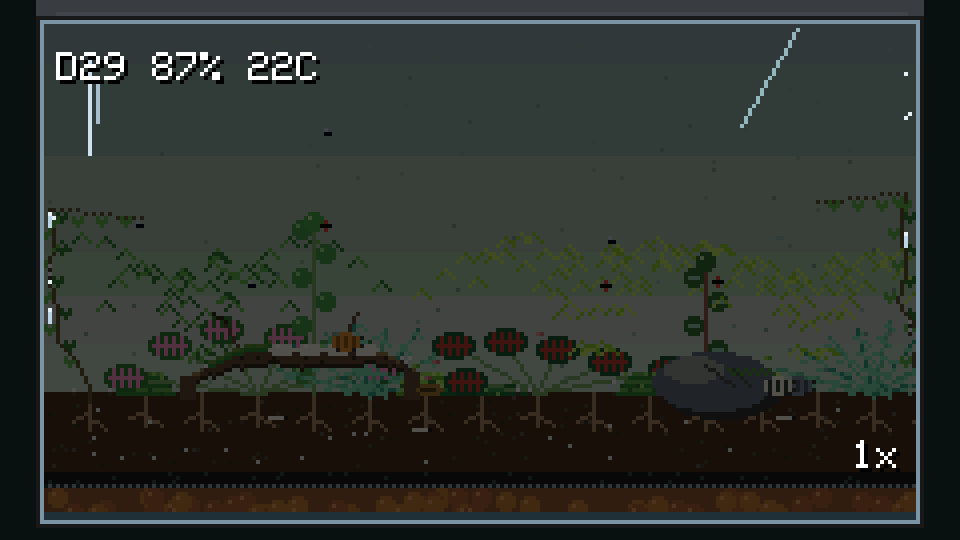
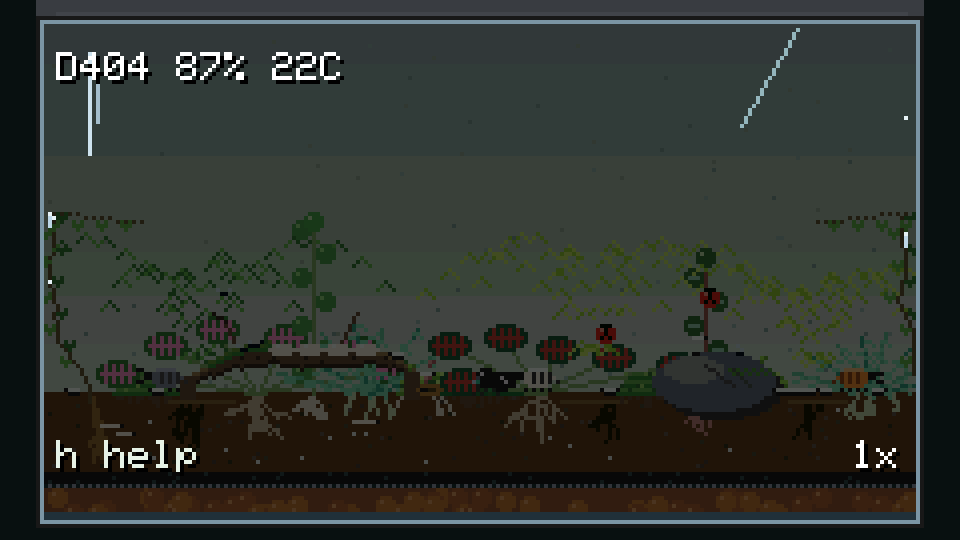
README: v1.0.3 behaviour, USB hot-plug, preview tool; new tank shots
Tank screenshots retaken on the board (same scene.cpp as v1.0.3):
creature agents and per-species roots are now visible.

Claude-Session: https://claude.ai/code/session_01SuPBVCJyWX74QwVoBREBwX

diff --git a/README.md b/README.md
@@ -49,7 +49,15 @@ cushion and carpet moss, button/lemon-button ferns, fittonia (pink and red veins
 peperomia, baby tears, selaginella, and creeping fig climbing the glass.
 
 **Creatures:** springtails, isopods (grey, orange, dalmatian), fungus gnats and their larvae,
-aphids, a ladybug, a jumping spider, plus mold and small mushrooms.
+aphids, a ladybug, a jumping spider, plus mold and small mushrooms. Each bug on screen is a
+small persistent agent with its own habits: isopods wander the litter, pause, and roll into a
+ball when you knock the board; springtails hop in short arcs; gnats flit about and land on
+leaves; ladybugs climb stems and fly between plants; the jumping spider stalks, crouches and
+pounces on a landed gnat or springtail. How many of each you see follows the simulation; the
+agents only animate it and never feed back. Below the soil line each plant grows its own
+branching roots.
+
+The tank redraws at 20 fps while the screen is bright and 10 fps once it dims.
 
 ## Pages and keys
 
@@ -74,7 +82,7 @@ Every key is a single press.
 - **Journal** — the last 32 events: blooms, crashes and recoveries, first gnats, cold/warm/dry
   spells, tremors, "radio storms", and what you did.
 - **Signals** — every live sensor number, the entropy hash, free heap around each scan, and the
-  firmware version + git commit on the last line (`terrarium v1.0.1 468d397`; `-dirty` if built from
+  firmware version + git commit on the last line (`terrarium v1.0.3 613fe02`; `-dirty` if built from
   uncommitted changes), so you can tell which build is running.
 
 The screen dims after 30 s idle and turns off after 3 min; the tank keeps living. The first key
@@ -161,6 +169,12 @@ make test      # ~2 s, prints per-species min/mean/max and PASS/FAIL
   with `WiFi.scanDelete()` or each scan leaks ~650 bytes.
 - The keyboard's `isChange()` is a destructive latch, so it is polled on every loop, releases
   included.
+- **USB hot-plug.** Arduino 2.0.x `HWCDC::begin()` forces a re-enumeration by driving D-/D+
+  (GPIO19/20) low as GPIO outputs and never releases them, so a cable plugged into an already
+  running board never enumerated (the host saw power only). The firmware hands both pins back to
+  the USB PHY after `Serial.begin()`. Serial `u` prints the pin state plus a per-boot record of
+  USB events (bus resets, connects, start-of-frame seen/lost) kept in NVS for the last three
+  boots, so a failed plug can be read back after the next boot.
 
 ## Prebuilt firmware
 
@@ -174,7 +188,7 @@ Each [release](../../releases) carries two images, both built from this source:
 ```sh
 # native USB: no download-mode button needed. --no-stub matters on this board.
 esptool.py --chip esp32s3 --no-stub -p <your serial port> --before default_reset --after hard_reset \
-  write_flash 0x0 terrarium-adv-v1.0.0-factory.bin
+  write_flash 0x0 terrarium-adv-vX.Y.Z-factory.bin
 ```
 
 Check the download against `SHA256SUMS` first. The images contain no credentials or keys.
@@ -204,7 +218,7 @@ Open the port with DTR asserted and RTS low (other combinations can drop the chi
 mode) — `tools/ser.py` does this. It needs pyserial, which PlatformIO's Python already has:
 
 ```sh
-~/.platformio/penv/bin/python tools/ser.py s        # status: jar, populations, sensors, heap
+~/.platformio/penv/bin/python tools/ser.py s        # status: jar, populations, sensors, heap, frame time
 ~/.platformio/penv/bin/python tools/ser.py k2       # inject keys (as if typed)
 ~/.platformio/penv/bin/python tools/ser.py --shot a.png   # screenshot the panel, 4x PNG
 ```
@@ -212,7 +226,7 @@ mode) — `tools/ser.py` does this. It needs pyserial, which PlatformIO's Python
 | Command | Effect |
 |---|---|
 | `h` | help |
-| `s` | full status |
+| `s` | full status (incl. draw+push time per frame and its max) |
 | `j` | dump the journal |
 | `P` | dump the framebuffer (used by `--shot`) |
 | `k<keys>` | inject key presses |
@@ -222,9 +236,20 @@ mode) — `tools/ser.py` does this. It needs pyserial, which PlatformIO's Python
 | `x<days>` | fast-forward the sim (debug; not logged as an absence) |
 | `z<seed>` | new tank with a seed |
 | `T<HHMM>` | set the clock |
+| `o` | wake the screen |
+| `u` | USB pin state and the last three boots' USB event records |
 | `G<n>` | show page *n* (`kh` opens the help) |
 
 The screenshots in this README were taken this way.
+
+## Preview without the board
+
+`tools/preview/` builds the real `src/scene.cpp` on the host against a tiny fake `M5Canvas`,
+so the animation can be judged without flashing:
+
+```sh
+tools/preview/render.sh out.gif [days] [secs] [hour] [seed] [shakeAt]   # also .mp4 or .png
+```
 
 ## Layout
 
@@ -238,6 +263,7 @@ src/help_text.h         every key and the how-to-play text (single source for th
 tools/harness.cpp       stability gate
 tools/ser.py            serial helper + screenshots
 tools/flash.sh          app-only flash
+tools/preview/          host renderer for the tank scene (gif / mp4 / png)
 lib/M5Cardputer/        vendored M5Cardputer keyboard library (MIT, M5Stack)
 ```
 
